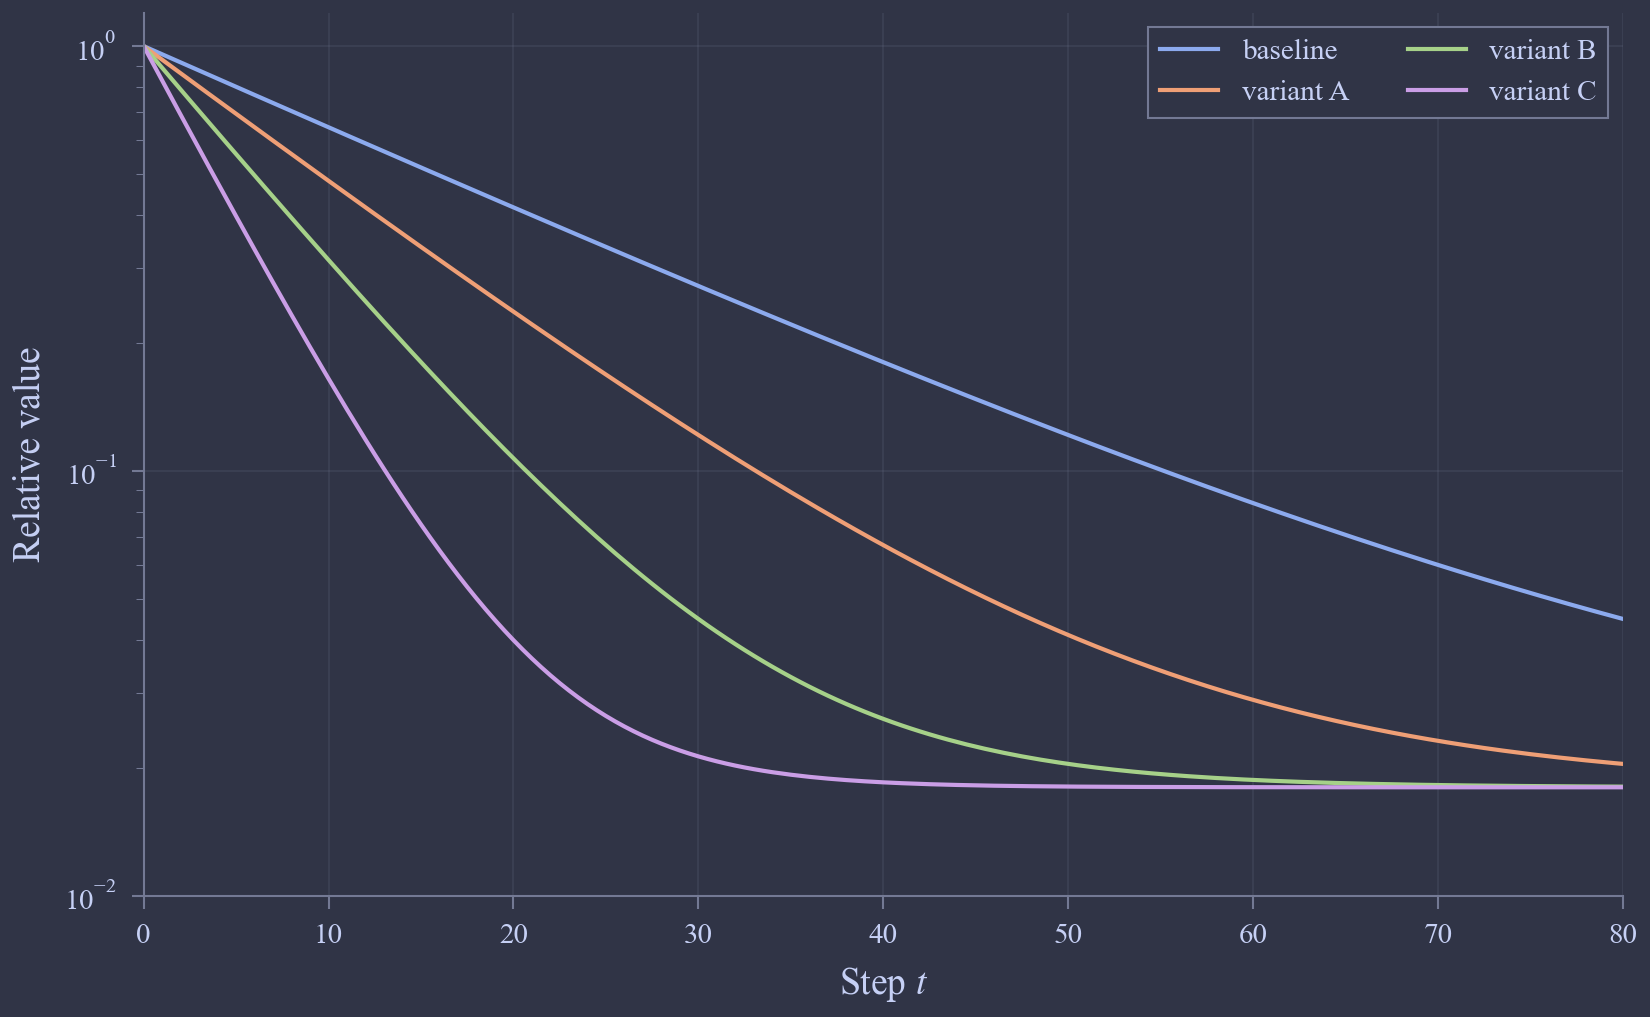
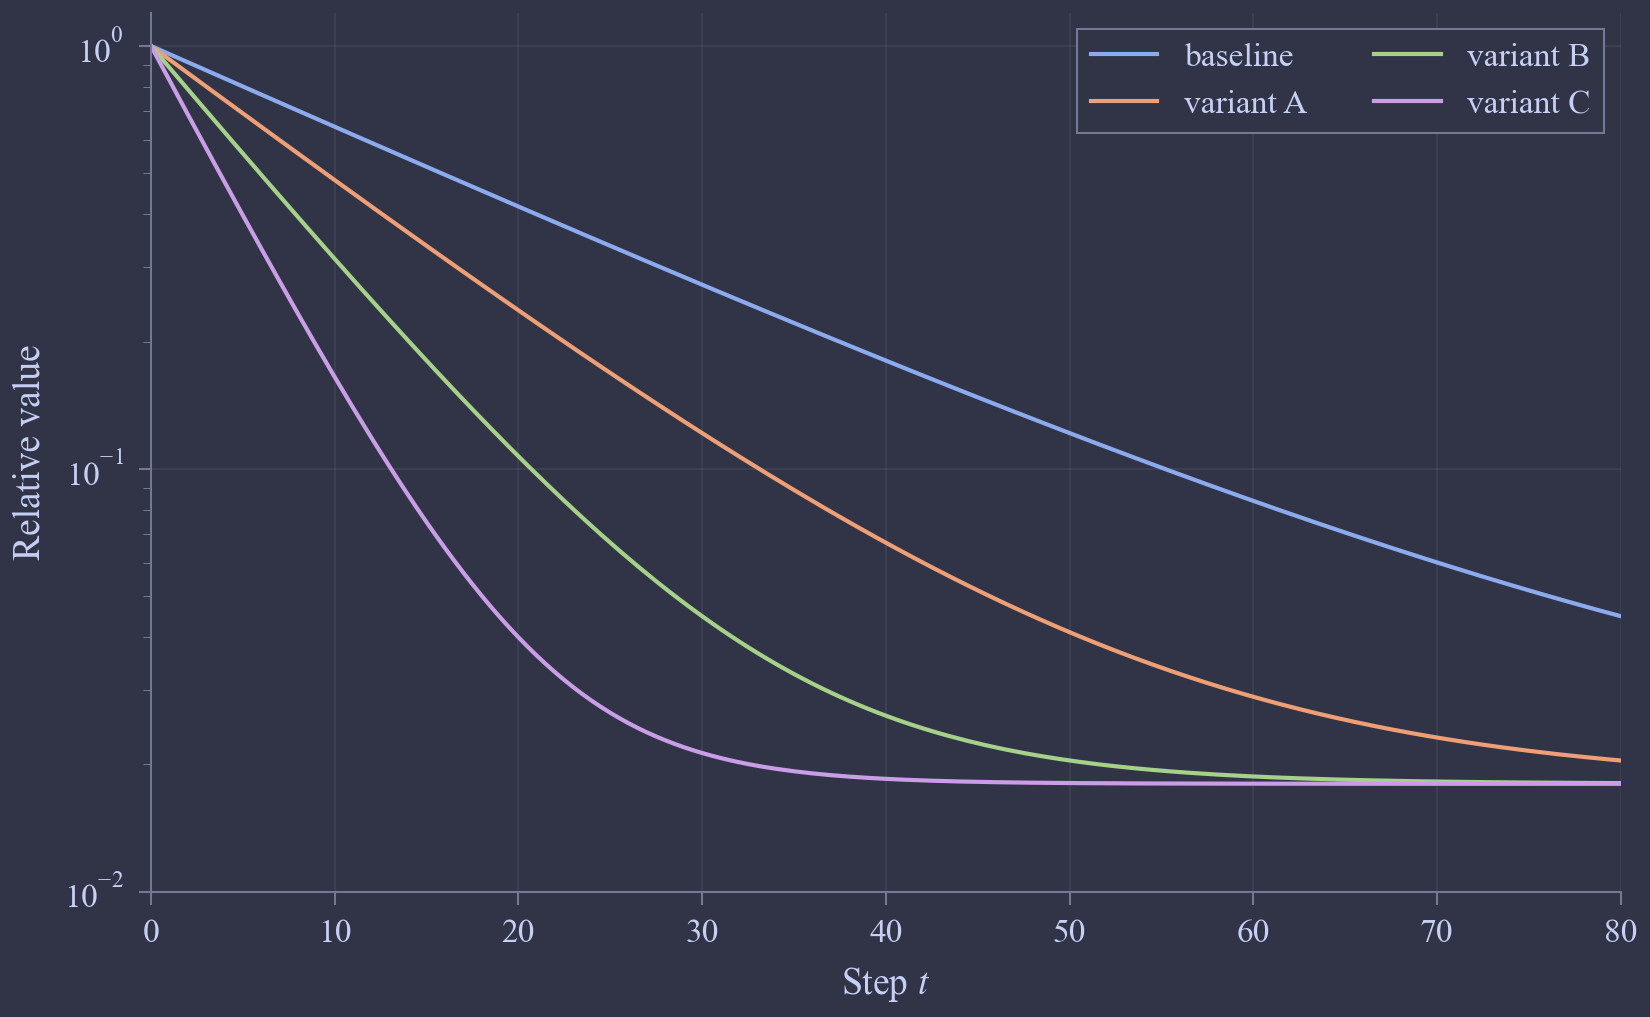
Update primary and secondary font sizes

diff --git a/tests/test_style.py b/tests/test_style.py
@@ -157,7 +157,12 @@ def test_default_theme_is_publication_style() -> None:
     assert value(config, "axes.prop_cycle").by_key()["color"] == list(
         REPAIRED_LATTE_CYCLE,
     )
-    assert value(config, "font.size") == pytest.approx(8.0)
+    assert value(config, "font.size") == pytest.approx(9.0)
+    assert value(config, "axes.labelsize") == pytest.approx(9.0)
+    assert value(config, "axes.titlesize") == pytest.approx(9.0)
+    assert value(config, "legend.fontsize") == pytest.approx(8.0)
+    assert value(config, "xtick.labelsize") == pytest.approx(8.0)
+    assert value(config, "ytick.labelsize") == pytest.approx(8.0)
 
 
 @pytest.mark.parametrize(
@@ -353,8 +358,8 @@ def test_venue_layout_defaults_match_publication_layout() -> None:
 @pytest.mark.parametrize(
     ("venue", "column", "expected_width", "expected_font_size"),
     [
-        ("icml", "half", 3.25, 8.0),
-        ("icml", "full", 6.75, 8.0),
+        ("icml", "half", 3.25, 9.0),
+        ("icml", "full", 6.75, 9.0),
         ("iclr", "full", 5.5, 9.0),
         ("neurips", "full", 5.5, 9.0),
     ],
@@ -372,6 +377,11 @@ def test_conference_defaults_apply_without_size_overrides(
 
     assert value(config, "font.size") == expected_font_size
     assert value(config, "font.family") == "Times New Roman"
+    assert value(config, "axes.labelsize") == pytest.approx(expected_font_size)
+    assert value(config, "axes.titlesize") == pytest.approx(expected_font_size)
+    assert value(config, "legend.fontsize") == pytest.approx(expected_font_size - 1.0)
+    assert value(config, "xtick.labelsize") == pytest.approx(expected_font_size - 1.0)
+    assert value(config, "ytick.labelsize") == pytest.approx(expected_font_size - 1.0)
     assert figure_size[0] == expected_width
     assert figure_size[1] == pytest.approx(expected_width * golden_ratio)
 

diff --git a/src/figmint/_style.py b/src/figmint/_style.py
@@ -17,7 +17,7 @@ VENUES = ("iclr", "neurips", "icml")
 VENUE_FONT_SIZES = {
     "iclr": 9.0,
     "neurips": 9.0,
-    "icml": 8.0,
+    "icml": 9.0,
 }
 
 VENUE_FONTS = {
@@ -406,7 +406,7 @@ def _latex_preamble(*, venue: str) -> str:
 
 
 def _font_size_config(*, font_size: float) -> dict[str, object]:
-    small_size = font_size - 2.0
+    small_size = font_size - 1.0
 
     return {
         "font.size": font_size,

diff --git a/README.md b/README.md
@@ -129,7 +129,7 @@ The Catppuccin colors used by the themed styles are official palette values. Eac
 
 ## Venue Presets
 
-Venue presets set the default figure size, font size, and font for paper figures. ICML uses `8 pt`; ICLR and NeurIPS use `9 pt`. All supported venue presets default to `Times New Roman`. `font`, `font_weight`, `font_size`, and `figure_size` are overrides; omit them to use the venue preset. To make a talk version, change the theme and override the font and size fields when needed. If Matplotlib cannot already see the target font, call `register_fonts(...)` once before rendering.
+Venue presets set the default figure size, font size, and font for paper figures. All supported paper venues use `9 pt` primary figure text and `8 pt` secondary figure text for tick labels and legends. All supported venue presets default to `Times New Roman`. `font`, `font_weight`, `font_size`, and `figure_size` are overrides; omit them to use the venue preset. To make a talk version, change the theme and override the font and size fields when needed. If Matplotlib cannot already see the target font, call `register_fonts(...)` once before rendering.
 
 Choose one of:
 
